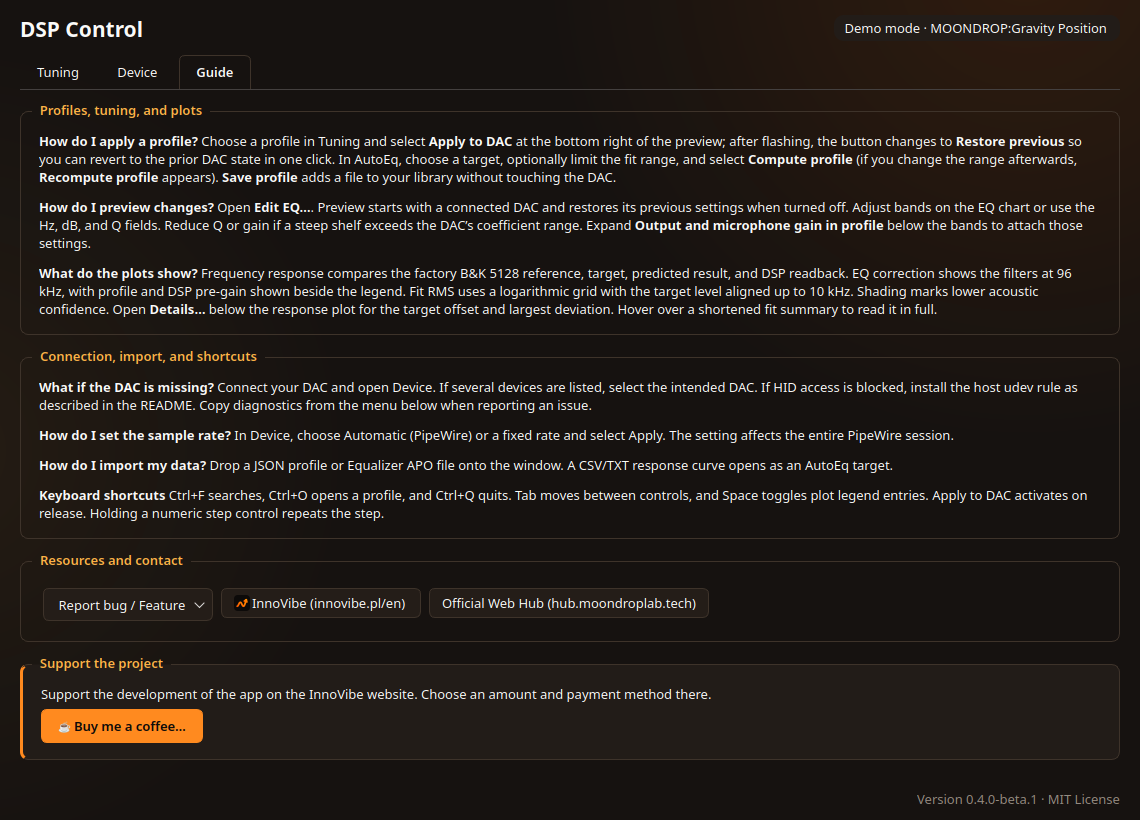
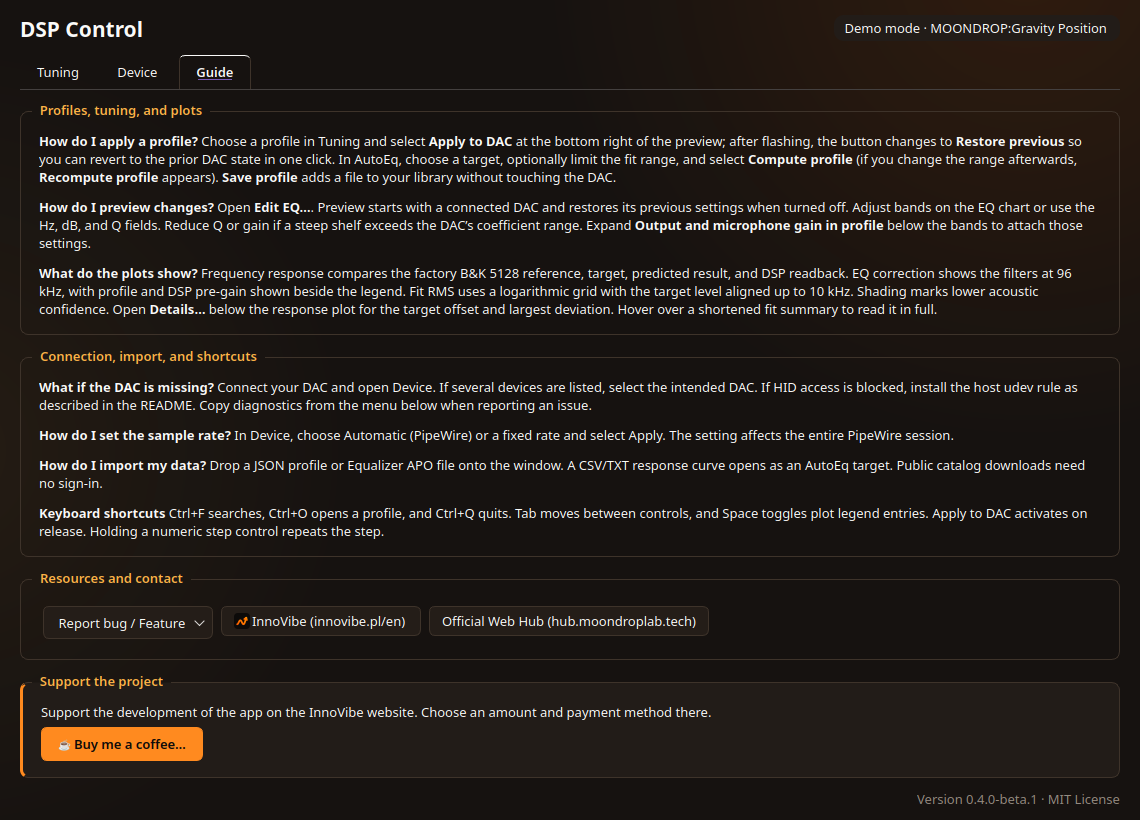
Download the public AutoEq catalog directly over HTTPS

Changed region(s): [[0.0307, 0.5488, 0.9518, 0.9451]]

diff --git a/skrypty/position_gui.py b/skrypty/position_gui.py
@@ -2706,6 +2706,10 @@ class AutoEqPanel(QWidget):
 
         self.status = self.text_label()
         self.status.setWordWrap(False)
+        self.catalog_error = FeedbackLabel()
+        self.catalog_error.setTextFormat(Qt.TextFormat.PlainText)
+        self.catalog_error.setWordWrap(True)
+        layout.addWidget(self.catalog_error)
         layout.addWidget(self.fit_provenance)
         self.fit_status = FeedbackLabel()
         self.fit_status.setTextFormat(Qt.TextFormat.PlainText)
@@ -2923,12 +2927,14 @@ class AutoEqPanel(QWidget):
         self.preview_changed.emit()
 
     def download_catalog(self) -> None:
+        self.catalog_error.clear()
         self.status.setText(tr("autoeq.loading_catalog"))
         self.start_job(lambda: catalog.download_index(self.index_path), self.catalog_downloaded)
 
     def catalog_downloaded(self, entries, error: str) -> None:
         if error:
-            self.status.setText(tr("autoeq.catalog_failed", error=error))
+            self.status.clear()
+            self.catalog_error.setText(tr("autoeq.catalog_failed", error=error))
             return
         self.entries = [entry for entry in self.entries if entry.local] + entries
         self.update_results()
@@ -2936,6 +2942,7 @@ class AutoEqPanel(QWidget):
     def open_catalog(self) -> None:
         path = QFileDialog.getExistingDirectory(self, "Wybierz folder repozytorium AutoEq")
         if path:
+            self.catalog_error.clear()
             self.status.setText(tr("autoeq.indexing_catalog"))
             self.start_job(lambda: self.index_local_catalog(Path(path)), self.catalog_opened)
 
@@ -2946,7 +2953,8 @@ class AutoEqPanel(QWidget):
 
     def catalog_opened(self, entries, error: str) -> None:
         if error:
-            self.status.setText(error)
+            self.status.clear()
+            self.catalog_error.setText(error)
             return
         self.entries = [
             entry

diff --git a/skrypty/autoeq_catalog.py b/skrypty/autoeq_catalog.py
@@ -5,8 +5,6 @@ from __future__ import annotations
 import json
 import os
 import re
-import shutil
-import subprocess
 import urllib.error
 import urllib.request
 from dataclasses import asdict, dataclass
@@ -70,24 +68,6 @@ def describe_path(relative: str, *, local_path: Path | None = None, revision: st
 
 
 def read_github(endpoint: str, limit: int, *, raw: bool = False) -> bytes:
-    if shutil.which("gh") is not None:
-        command = ["gh", "api", "--hostname", "github.com"]
-        if raw:
-            command += ["-H", "Accept: application/vnd.github.raw+json"]
-        try:
-            result = subprocess.run(
-                [*command, endpoint], capture_output=True, timeout=18, env={**os.environ, "GH_PROMPT_DISABLED": "1"}
-            )
-        except subprocess.TimeoutExpired as exc:
-            raise ValueError("GitHub CLI przekroczył limit czasu.") from exc
-        if result.returncode:
-            message = result.stderr.decode(errors="replace").strip()
-            raise ValueError(message or "GitHub CLI nie zwrócił danych.")
-        data = result.stdout
-        if len(data) > limit:
-            raise ResponseTooLarge("Odpowiedź katalogu AutoEq jest większa niż dopuszczalny rozmiar.")
-        return data
-
     url = f"https://api.github.com/{endpoint.lstrip('/')}"
     accept = "application/vnd.github.raw+json" if raw else "application/vnd.github+json"
     request = urllib.request.Request(

diff --git a/tests/test_protocol_and_profiles.py b/tests/test_protocol_and_profiles.py
@@ -249,7 +249,7 @@ def test_i18n_languages_switch_and_extensibility(tmp_path: Path) -> None:
     assert custom_langs["de"] == "Deutsch"
 
 
-def test_autoeq_read_github_https_fallback(monkeypatch) -> None:
+def test_autoeq_read_github_uses_public_https(monkeypatch) -> None:
     class FakeResponse:
         def __init__(self, payload: bytes) -> None:
             self.payload = payload
@@ -263,8 +263,13 @@ def test_autoeq_read_github_https_fallback(monkeypatch) -> None:
         def read(self, _n: int) -> bytes:
             return self.payload
 
-    monkeypatch.setattr(catalog.shutil, "which", lambda _cmd: None)
-    monkeypatch.setattr(catalog.urllib.request, "urlopen", lambda _req, timeout=18: FakeResponse(b'{"tree": []}'))
+    def open_public_index(request, *, timeout):
+        assert request.full_url == "https://api.github.com/repos/jaakkopasanen/AutoEq/git/trees/master"
+        assert request.get_header("Authorization") is None
+        assert timeout == 18
+        return FakeResponse(b'{"tree": []}')
+
+    monkeypatch.setattr(catalog.urllib.request, "urlopen", open_public_index)
     data = catalog.read_github("repos/jaakkopasanen/AutoEq/git/trees/master", 1024)
     assert data == b'{"tree": []}'
 

diff --git a/tests/test_gui_smoke.py b/tests/test_gui_smoke.py
@@ -503,6 +503,12 @@ def test_tuning_plots_keep_geometry_with_dynamic_scale(tmp_path: Path) -> None:
         assert panel.catalog_button.height() == add_button_height
         assert panel.catalog_button.mapTo(window, QPoint()).y() == add_button_y
         assert panel.status.x() > panel.catalog_button.geometry().right()
+        panel.catalog_downloaded(None, "GitHub API zwróciło błąd HTTP 403.")
+        QTest.qWait(20)
+        assert panel.catalog_error.isVisible() and panel.catalog_error.wordWrap()
+        assert panel.catalog_error.geometry().right() <= panel.rect().right()
+        assert "HTTP 403" in panel.catalog_error.text()
+        panel.catalog_error.clear()
         fit_option = QStyleOptionComboBox()
         panel.fit_range.initStyleOption(fit_option)
         fit_rect = panel.fit_range.style().subControlRect(

diff --git a/docs/integracja-autoeq.md b/docs/integracja-autoeq.md
@@ -157,6 +157,9 @@ dane/
 * **Własne pomiary użytkownika (REW / squig.link)** — parser (`skrypty/measurements.py`) obsługuje formaty CSV oraz eksporty `.txt` (REW 1/48 oct, pojedyncze lub L/R) dostarczone lokalnie przez użytkownika.
 * **AutoEq** — `measurements/<źródło>/data/in-ear/*.csv` i `targets/*.csv`
   (MIT; dane pomiarowe od oratory1990/crinacle/Rtings itd.).
+  Aplikacja pobiera indeks i krzywe przez publiczne API GitHuba po HTTPS.
+  Pobieranie działa bez konta, w granicach limitu anonimowych zapytań GitHuba.
+  Wcześniej pobrane dane i lokalna kopia repozytorium działają również offline.
 * **oficjalne Moondrop** — dwa kanały:
   1. sloty fabryczne w urządzeniu (slot 0 „Default”) — można je **odczytać
      przez HID** i zapisać jako „oficjalny preset”; to dosłownie fabryczne

diff --git a/README.pl.md b/README.pl.md
@@ -18,6 +18,8 @@ Niezależnie od tego, czy grasz na Steam/Proton, czy stroisz swoje słuchawki IE
 **Wersja testowa ze źródeł:** Pokazany niżej interfejs DSP Control uruchomisz z tego repozytorium. Aktualny publiczny
 Flatpak to [v0.3.8](https://github.com/tom3k5/moondrop-position-dac/releases/tag/v0.3.8).
 
+Wersja ze źródeł pobiera publiczny katalog AutoEq przez HTTPS bez logowania do GitHuba.
+
 ### 1. Instalacja z paczki Flatpak (Zalecane)
 Pobierz plik `position-dac.flatpak` z zakładki [**GitHub Releases**](https://github.com/tom3k5/moondrop-position-dac/releases/latest) (zawiera PySide6 i pełny optymalizator AutoEq):
 

diff --git a/README.md b/README.md
@@ -18,6 +18,8 @@ Whether you play competitive games on Steam/Proton or tune your IEMs to Harman, 
 **Source preview:** The DSP Control interface shown below runs from this repository. The current public Flatpak is
 [v0.3.8](https://github.com/tom3k5/moondrop-position-dac/releases/tag/v0.3.8).
 
+The source version downloads the public AutoEq catalog over HTTPS without GitHub sign-in.
+
 ### 1. Install via Flatpak (Recommended)
 Download `position-dac.flatpak` from [**GitHub Releases**](https://github.com/tom3k5/moondrop-position-dac/releases/latest) (bundles PySide6 and the full AutoEq optimizer):
 
